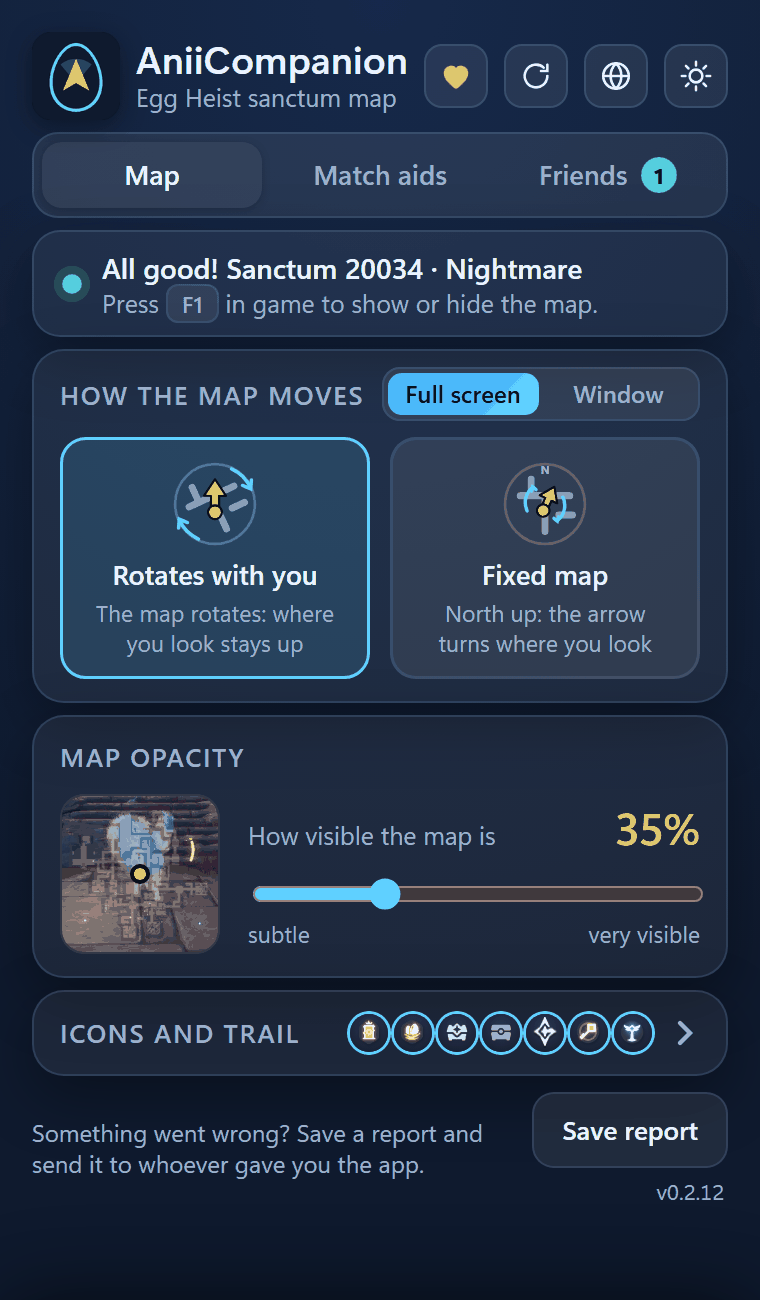
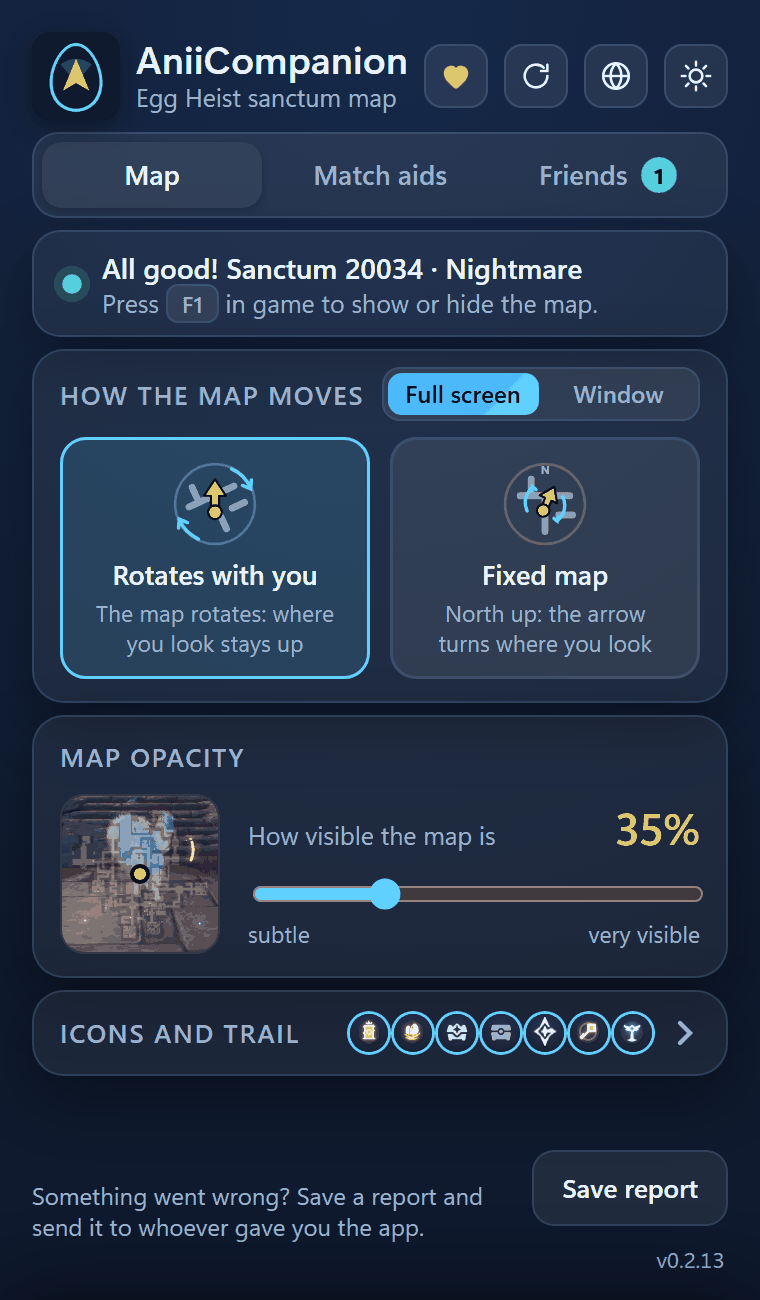
Site da 0.2.13 (site e6e44f9)

Changed region(s): [[0.0303, 0.8615, 0.6355, 0.9538], [0.6961, 0.8615, 0.9684, 0.9231], [0.8776, 0.9538, 0.9382, 0.9846]]

diff --git a/en/download.html b/en/download.html
@@ -83,10 +83,10 @@
           <li><b>Scroll to “Assets”</b><span>It is the list of files at the end of the version page.</span></li>
           <li><b>Click the .zip</b><span>It is called <code>AniiCompanion-&lt;version&gt;-&lt;code&gt;.zip</code>: the green one in the illustration. The number changes with every update.</span></li>
         </ol>
-        <div class="release" role="img" aria-label="Illustration of the file list of a version on GitHub: the file AniiCompanion-0.2.12-5d1684d.zip is highlighted in green with the label Download this. The other four files do not need to be downloaded.">
+        <div class="release" role="img" aria-label="Illustration of the file list of a version on GitHub: the file AniiCompanion-0.2.13-338616f.zip is highlighted in green with the label Download this. The other four files do not need to be downloaded.">
           <div class="release-cab" aria-hidden="true">Assets <span>5</span></div>
           <ul aria-hidden="true">
-            <li class="certo"><svg viewBox="0 0 16 16" aria-hidden="true"><path d="M3.5 1.5h6l3 3v10h-9z"/><path d="M9.5 1.5v3h3"/></svg><span class="nome">AniiCompanion-0.2.12-5d1684d.zip</span><span class="dica">← Download this</span></li>
+            <li class="certo"><svg viewBox="0 0 16 16" aria-hidden="true"><path d="M3.5 1.5h6l3 3v10h-9z"/><path d="M9.5 1.5v3h3"/></svg><span class="nome">AniiCompanion-0.2.13-338616f.zip</span><span class="dica">← Download this</span></li>
             <li class="errado"><svg viewBox="0 0 16 16" aria-hidden="true"><path d="M3.5 1.5h6l3 3v10h-9z"/><path d="M9.5 1.5v3h3"/></svg><span class="nome">manifest.json</span><span class="dica">the app uses it by itself</span></li>
             <li class="errado"><svg viewBox="0 0 16 16" aria-hidden="true"><path d="M3.5 1.5h6l3 3v10h-9z"/><path d="M9.5 1.5v3h3"/></svg><span class="nome">manifest.json.sig</span><span class="dica">the app uses it by itself</span></li>
             <li class="errado"><svg viewBox="0 0 16 16" aria-hidden="true"><path d="M3.5 1.5h6l3 3v10h-9z"/><path d="M9.5 1.5v3h3"/></svg><span class="nome">Source code (zip)</span><span class="dica">not the program</span></li>
@@ -108,7 +108,7 @@
           <li><b>Open Aniimo and enter Egg Heist</b><span>The map appears on top of the game, only inside the sanctum.</span></li>
           <li><b>The difficulty sets itself</b><span>The app reads it from the coin goal on the game panel (Normal, Hard, Nightmare or Chaos). If it cannot, the sanctum itself tells it. There is nothing to choose.</span></li>
         </ol>
-        <div class="captura"><picture><source srcset="../img/v12-config-mapa-en-claro.png" media="(prefers-color-scheme: light)"><img src="../img/v12-config-mapa-en-escuro.png" alt="The AniiCompanion window, Map tab, with seven numbered points explained beside it" width="380" height="650" loading="lazy"></picture><span class="marca-n m-70_5-5_8">1</span><span class="marca-n m-81_1-5_8">2</span><span class="marca-n m-9_1-13_5">3</span><span class="marca-n m-36_5-13_5">4</span><span class="marca-n m-64_8-13_5">5</span><span class="marca-n m-94_3-21_8">6</span><span class="marca-n m-94-83_8">7</span></div>
+        <div class="captura"><picture><source srcset="../img/v12-config-mapa-en-claro.png" media="(prefers-color-scheme: light)"><img src="../img/v12-config-mapa-en-escuro.png" alt="The AniiCompanion window, Map tab, with seven numbered points explained beside it" width="380" height="650" loading="lazy"></picture><span class="marca-n m-70_5-5_8">1</span><span class="marca-n m-81_1-5_8">2</span><span class="marca-n m-9_1-13_5">3</span><span class="marca-n m-36_5-13_5">4</span><span class="marca-n m-64_8-13_5">5</span><span class="marca-n m-94_3-21_8">6</span><span class="marca-n m-94-88_4">7</span></div>
         <h3 class="depois">This is the app window</h3>
         <ol class="legenda-n grande depois">
           <li><b>Restart map.</b> If the map looks odd in the game, one click redoes it.</li>
@@ -154,7 +154,7 @@
       <h2>Update</h2>
       <p class="sub">The app checks for new versions by itself, when it opens and every 6 hours.</p>
       <ol class="passos linha">
-        <li><b>See the notice</b><span>At the top of the app window you will see <span class="selo-novo"><svg viewBox="0 0 24 24" aria-hidden="true"><path d="M12 4v11M7 10.5l5 5 5-5M5 20h14"/></svg>New version 0.2.12 · Update</span></span></li>
+        <li><b>See the notice</b><span>At the top of the app window you will see <span class="selo-novo"><svg viewBox="0 0 24 24" aria-hidden="true"><path d="M12 4v11M7 10.5l5 5 5-5M5 20h14"/></svg>New version 0.2.13 · Update</span></span></li>
         <li><b>Click it</b><span>Read what is new and tap “Update now”. The app does the rest.</span></li>
         <li><b>Done</b><span>It downloads, checks the author signature, and only then swaps the app.</span></li>
       </ol>

diff --git a/baixar.html b/baixar.html
@@ -83,10 +83,10 @@
           <li><b>Role até “Assets”</b><span>É a lista de arquivos no fim da página da versão.</span></li>
           <li><b>Clique no .zip</b><span>Ele se chama <code>AniiCompanion-&lt;versão&gt;-&lt;código&gt;.zip</code>: o verde na ilustração. O número muda a cada atualização.</span></li>
         </ol>
-        <div class="release" role="img" aria-label="Ilustração da lista de arquivos de uma versão no GitHub: o arquivo AniiCompanion-0.2.12-5d1684d.zip está destacado em verde, com o aviso Baixe este. Os outros quatro arquivos não precisam ser baixados.">
+        <div class="release" role="img" aria-label="Ilustração da lista de arquivos de uma versão no GitHub: o arquivo AniiCompanion-0.2.13-338616f.zip está destacado em verde, com o aviso Baixe este. Os outros quatro arquivos não precisam ser baixados.">
           <div class="release-cab" aria-hidden="true">Assets <span>5</span></div>
           <ul aria-hidden="true">
-            <li class="certo"><svg viewBox="0 0 16 16" aria-hidden="true"><path d="M3.5 1.5h6l3 3v10h-9z"/><path d="M9.5 1.5v3h3"/></svg><span class="nome">AniiCompanion-0.2.12-5d1684d.zip</span><span class="dica">← Baixe este</span></li>
+            <li class="certo"><svg viewBox="0 0 16 16" aria-hidden="true"><path d="M3.5 1.5h6l3 3v10h-9z"/><path d="M9.5 1.5v3h3"/></svg><span class="nome">AniiCompanion-0.2.13-338616f.zip</span><span class="dica">← Baixe este</span></li>
             <li class="errado"><svg viewBox="0 0 16 16" aria-hidden="true"><path d="M3.5 1.5h6l3 3v10h-9z"/><path d="M9.5 1.5v3h3"/></svg><span class="nome">manifest.json</span><span class="dica">o app usa sozinho</span></li>
             <li class="errado"><svg viewBox="0 0 16 16" aria-hidden="true"><path d="M3.5 1.5h6l3 3v10h-9z"/><path d="M9.5 1.5v3h3"/></svg><span class="nome">manifest.json.sig</span><span class="dica">o app usa sozinho</span></li>
             <li class="errado"><svg viewBox="0 0 16 16" aria-hidden="true"><path d="M3.5 1.5h6l3 3v10h-9z"/><path d="M9.5 1.5v3h3"/></svg><span class="nome">Source code (zip)</span><span class="dica">não é o programa</span></li>
@@ -108,7 +108,7 @@
           <li><b>Abra o Aniimo e entre no Roubo dos Ovos</b><span>O mapa aparece por cima do jogo, só dentro do santuário.</span></li>
           <li><b>A dificuldade se acerta sozinha</b><span>O app descobre pela meta de moedas do painel do jogo (Normal, Difícil, Pesadelo ou Caos). Se não conseguir, o próprio santuário indica. Não há o que escolher.</span></li>
         </ol>
-        <div class="captura"><picture><source srcset="img/v12-config-mapa-pt-claro.png" media="(prefers-color-scheme: light)"><img src="img/v12-config-mapa-pt-escuro.png" alt="A janela do AniiCompanion, aba Mapa, com sete pontos numerados explicados ao lado" width="380" height="650" loading="lazy"></picture><span class="marca-n m-70_5-6_8">1</span><span class="marca-n m-81_1-6_8">2</span><span class="marca-n m-9_1-15_3">3</span><span class="marca-n m-36_5-15_3">4</span><span class="marca-n m-64_8-15_3">5</span><span class="marca-n m-94_3-24_9">6</span><span class="marca-n m-94_1-88">7</span></div>
+        <div class="captura"><picture><source srcset="img/v12-config-mapa-pt-claro.png" media="(prefers-color-scheme: light)"><img src="img/v12-config-mapa-pt-escuro.png" alt="A janela do AniiCompanion, aba Mapa, com sete pontos numerados explicados ao lado" width="380" height="650" loading="lazy"></picture><span class="marca-n m-70_5-6_8">1</span><span class="marca-n m-81_1-6_8">2</span><span class="marca-n m-9_1-15_3">3</span><span class="marca-n m-36_5-15_3">4</span><span class="marca-n m-64_8-15_3">5</span><span class="marca-n m-94_3-24_9">6</span><span class="marca-n m-94_1-88_4">7</span></div>
         <h3 class="depois">Esta é a janela do app</h3>
         <ol class="legenda-n grande depois">
           <li><b>Reiniciar mapa.</b> Se o mapa aparecer estranho no jogo, um clique refaz.</li>
@@ -154,7 +154,7 @@
       <h2>Atualizar</h2>
       <p class="sub">O app confere sozinho se há versão nova, ao abrir e a cada 6 horas.</p>
       <ol class="passos linha">
-        <li><b>Veja o aviso</b><span>No alto da janela do app aparece <span class="selo-novo"><svg viewBox="0 0 24 24" aria-hidden="true"><path d="M12 4v11M7 10.5l5 5 5-5M5 20h14"/></svg>Nova versão 0.2.12 · Atualizar</span></span></li>
+        <li><b>Veja o aviso</b><span>No alto da janela do app aparece <span class="selo-novo"><svg viewBox="0 0 24 24" aria-hidden="true"><path d="M12 4v11M7 10.5l5 5 5-5M5 20h14"/></svg>Nova versão 0.2.13 · Atualizar</span></span></li>
         <li><b>Clique nele</b><span>Leia as novidades e toque em “Atualizar agora”. O app faz o resto.</span></li>
         <li><b>Pronto</b><span>Ele baixa, confere a assinatura do autor e só então troca o app.</span></li>
       </ol>

diff --git a/primeira-partida.html b/primeira-partida.html
@@ -98,7 +98,7 @@
       <h2>A janela do app</h2>
       <div class="lado fixa">
         <p class="sub">As abas Mapa, Ajudas e Amigos ficam no alto dela, e o botão do globo troca o idioma do app. Os números abaixo são os da captura.</p>
-        <div class="captura"><picture><source srcset="img/v12-config-mapa-pt-claro.png" media="(prefers-color-scheme: light)"><img src="img/v12-config-mapa-pt-escuro.png" alt="A janela do AniiCompanion, aba Mapa, com seis marcadores: Reiniciar mapa, o globo do idioma, o estado “Tudo certo!”, o seletor Tela toda ou Janela, o jeito de o mapa se mexer e Salvar relatório" width="380" height="650" loading="lazy"></picture><span class="marca-n m-70_5-6_8">1</span><span class="marca-n m-81_1-6_8">2</span><span class="marca-n m-94_3-24_9">3</span><span class="marca-n m-94_3-34_7">4</span><span class="marca-n m-4-31_2">5</span><span class="marca-n m-94_1-88">6</span></div>
+        <div class="captura"><picture><source srcset="img/v12-config-mapa-pt-claro.png" media="(prefers-color-scheme: light)"><img src="img/v12-config-mapa-pt-escuro.png" alt="A janela do AniiCompanion, aba Mapa, com seis marcadores: Reiniciar mapa, o globo do idioma, o estado “Tudo certo!”, o seletor Tela toda ou Janela, o jeito de o mapa se mexer e Salvar relatório" width="380" height="650" loading="lazy"></picture><span class="marca-n m-70_5-6_8">1</span><span class="marca-n m-81_1-6_8">2</span><span class="marca-n m-94_3-24_9">3</span><span class="marca-n m-94_3-34_7">4</span><span class="marca-n m-4-31_2">5</span><span class="marca-n m-94_1-88_4">6</span></div>
         <ol class="legenda-n grande depois">
           <li><b>Reiniciar mapa.</b> A seta circular no alto. Use se o mapa aparecer cortado ou parado. Ninhos, ovos e baús continuam marcados.</li>
           <li><b>Idioma.</b> O globo troca o idioma do app entre Português e English.</li>

diff --git a/en/first-match.html b/en/first-match.html
@@ -97,7 +97,7 @@
       <h2>The app window</h2>
       <div class="lado fixa">
         <p class="sub">The Map, Match aids and Friends tabs sit at its top, and the globe button switches the app language. The numbers below match the screenshot.</p>
-        <div class="captura"><picture><source srcset="../img/v12-config-mapa-en-claro.png" media="(prefers-color-scheme: light)"><img src="../img/v12-config-mapa-en-escuro.png" alt="The AniiCompanion window, Map tab, with six markers: Restart map, the language globe, the “All good!” status, the Full screen or Window switch, how the map moves and Save report" width="380" height="650" loading="lazy"></picture><span class="marca-n m-70_5-5_8">1</span><span class="marca-n m-81_1-5_8">2</span><span class="marca-n m-94_3-21_8">3</span><span class="marca-n m-94_3-30_3">4</span><span class="marca-n m-4-26_9">5</span><span class="marca-n m-94-83_8">6</span></div>
+        <div class="captura"><picture><source srcset="../img/v12-config-mapa-en-claro.png" media="(prefers-color-scheme: light)"><img src="../img/v12-config-mapa-en-escuro.png" alt="The AniiCompanion window, Map tab, with six markers: Restart map, the language globe, the “All good!” status, the Full screen or Window switch, how the map moves and Save report" width="380" height="650" loading="lazy"></picture><span class="marca-n m-70_5-5_8">1</span><span class="marca-n m-81_1-5_8">2</span><span class="marca-n m-94_3-21_8">3</span><span class="marca-n m-94_3-30_3">4</span><span class="marca-n m-4-26_9">5</span><span class="marca-n m-94-88_4">6</span></div>
         <ol class="legenda-n grande depois">
           <li><b>Restart map.</b> The circular arrow at the top. Use it if the map looks cut off or frozen. Nests, eggs and chests stay marked.</li>
           <li><b>Language.</b> The globe switches the app between Português and English.</li>

diff --git a/equipe.html b/equipe.html
@@ -107,7 +107,7 @@
         <section class="bloco" id="version">
         <p class="rotulo"><svg class="ic" aria-hidden="true"><use href="#atualizacao"/></svg> Versão</p>
         <h2>Versão mínima</h2>
-        <div class="aviso"><b>Os dois na 0.2.8 ou mais nova</b><p>Para trocar ninhos e ovos, os dois precisam dessa versão. O app avisa quando há uma nova, com <b>“Nova versão 0.2.12 · Atualizar”</b>. <a href="baixar.html#update">Como atualizar</a></p></div>
+        <div class="aviso"><b>Os dois na 0.2.8 ou mais nova</b><p>Para trocar ninhos e ovos, os dois precisam dessa versão. O app avisa quando há uma nova, com <b>“Nova versão 0.2.13 · Atualizar”</b>. <a href="baixar.html#update">Como atualizar</a></p></div>
         </section>
         <section class="bloco" id="privacy">
         <p class="rotulo"><svg class="ic" aria-hidden="true"><use href="#escudo"/></svg> Privacidade</p>

diff --git a/en/team.html b/en/team.html
@@ -107,7 +107,7 @@
         <section class="bloco" id="version">
         <p class="rotulo"><svg class="ic" aria-hidden="true"><use href="#atualizacao"/></svg> Version</p>
         <h2>Minimum version</h2>
-        <div class="aviso"><b>Both on 0.2.8 or newer</b><p>To swap nests and eggs, you both need that version. The app tells you when there is a new one, with <b>“New version 0.2.12 · Update”</b>. <a href="download.html#update">How to update</a></p></div>
+        <div class="aviso"><b>Both on 0.2.8 or newer</b><p>To swap nests and eggs, you both need that version. The app tells you when there is a new one, with <b>“New version 0.2.13 · Update”</b>. <a href="download.html#update">How to update</a></p></div>
         </section>
         <section class="bloco" id="privacy">
         <p class="rotulo"><svg class="ic" aria-hidden="true"><use href="#escudo"/></svg> Privacy</p>

diff --git a/style.css b/style.css
@@ -583,8 +583,8 @@ table.tabela-dupla td { color: var(--text); }
 .m-70_5-6_8 { --x: 70.5; --y: 6.8; }
 .m-81_1-5_8 { --x: 81.1; --y: 5.8; }
 .m-81_1-6_8 { --x: 81.1; --y: 6.8; }
-.m-94-83_8 { --x: 94.0; --y: 83.8; }
-.m-94_1-88 { --x: 94.1; --y: 88.0; }
+.m-94-88_4 { --x: 94.0; --y: 88.4; }
+.m-94_1-88_4 { --x: 94.1; --y: 88.4; }
 .m-94_3-21_8 { --x: 94.3; --y: 21.8; }
 .m-94_3-24_9 { --x: 94.3; --y: 24.9; }
 .m-94_3-30_3 { --x: 94.3; --y: 30.3; }
